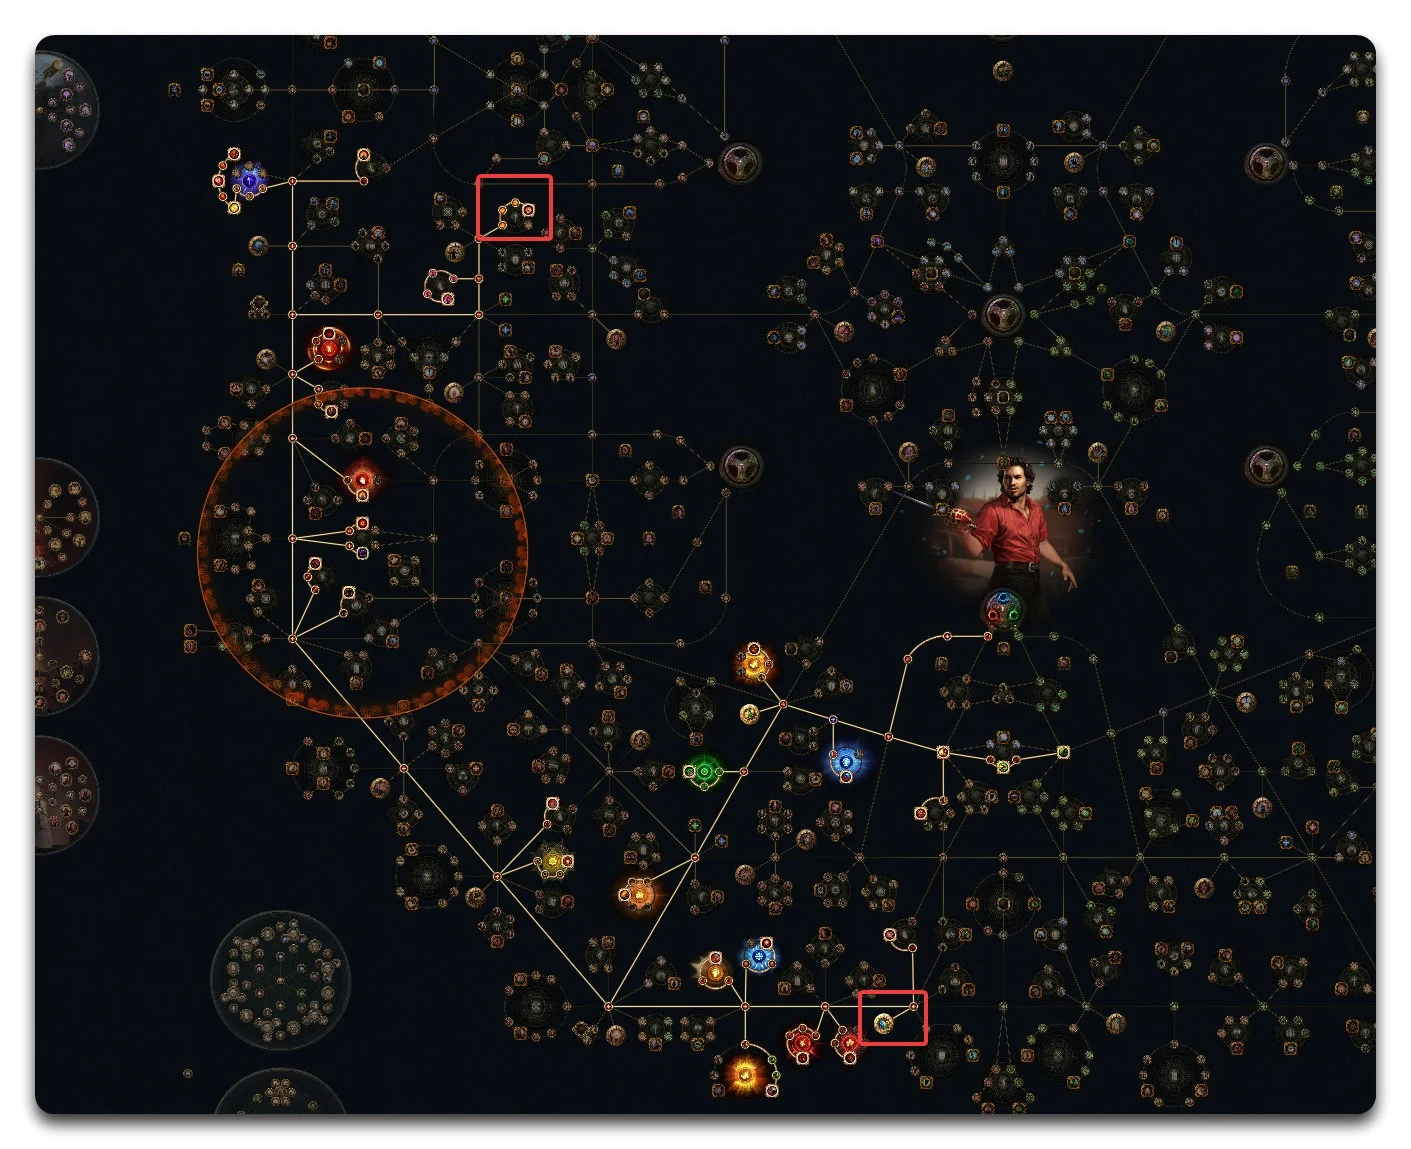
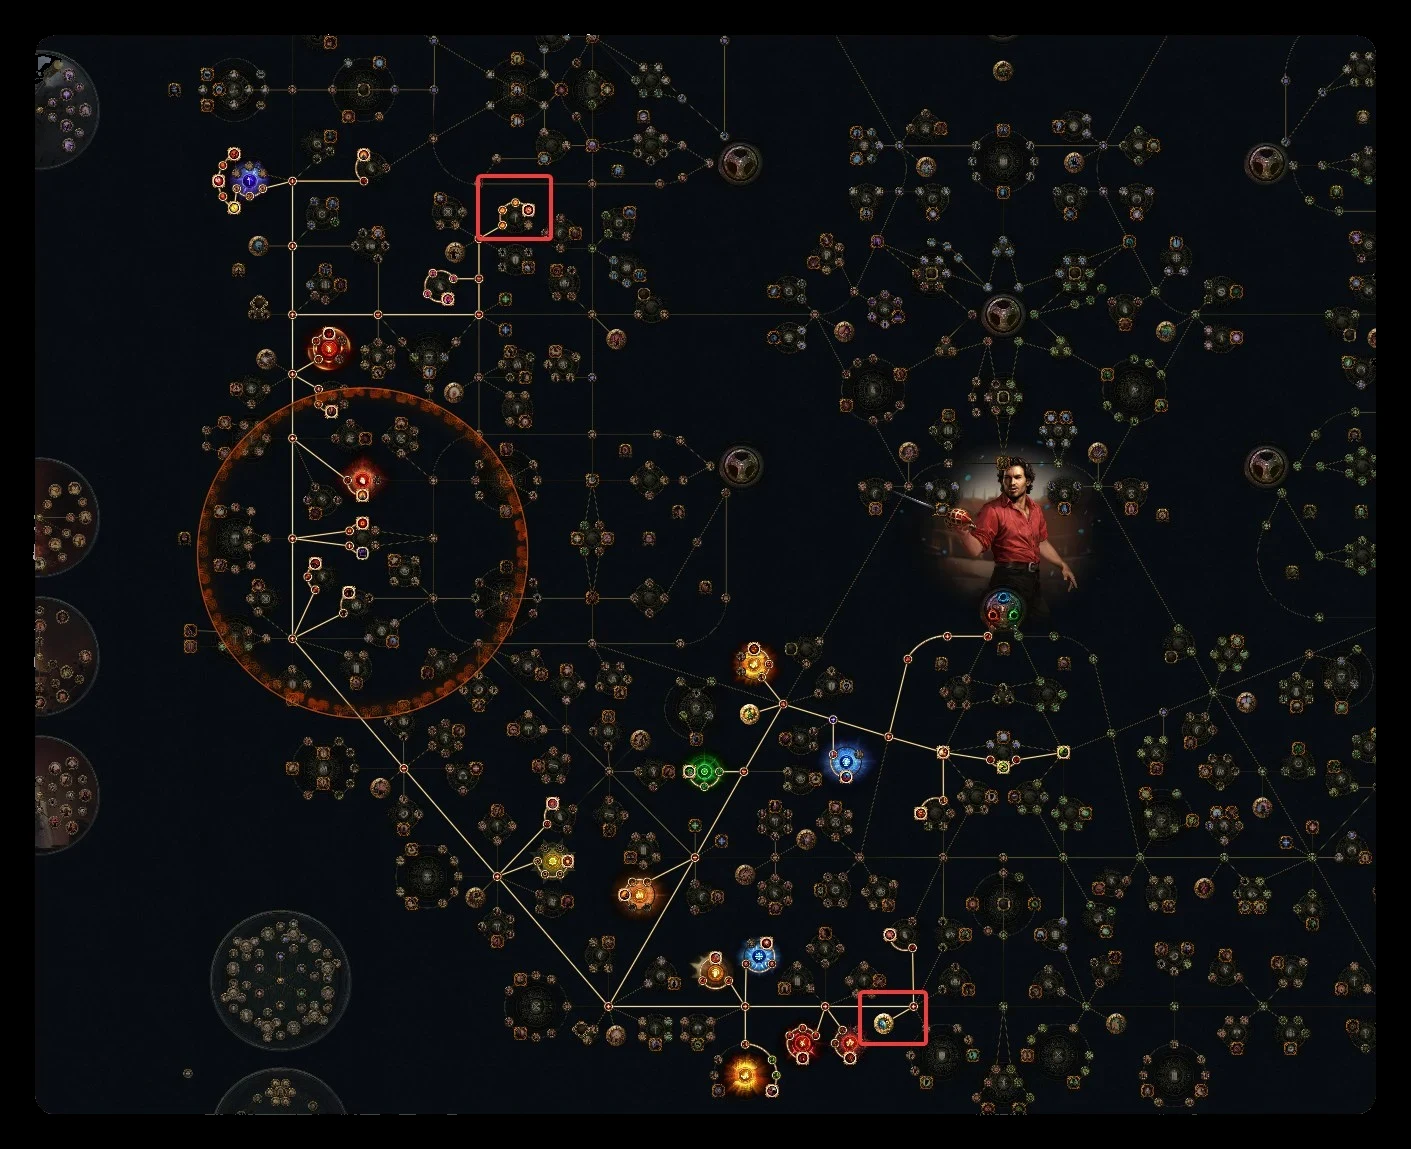
cyclone: скрин нод на блок перенесён к пункту про блок, чёрная рамка, картинки после своих пунктов
Claude-Session: https://claude.ai/code/session_018VjNU9HzQsTC65RTmxuG3e

Changed region(s): [[0.0, 0.0, 1.0, 1.0]]

diff --git a/cyclone/index.html b/cyclone/index.html
@@ -200,11 +200,13 @@
 <ul><li>Смертельная гордость (Lethal Pride): самоцвет на двойной урон.</li></ul>
 <div class="shots"><figure class="shot"><button type="button" aria-label="Открыть: Смертельная гордость"><img src="img/lethal.webp" alt="Смертельная гордость" loading="lazy"></button><figcaption>Смертельная гордость</figcaption></figure></div>
 <ul><li>Около 100% увеличения урона в ветке огня (нужен плоский урон от огня к атакам, без Жестокости в связке Вихря).</li></ul>
-<div class="shots"><figure class="shot"><button type="button" aria-label="Открыть: Мастерство огня"><img src="img/firemastery.webp" alt="Мастерство огня" loading="lazy"></button><figcaption>Мастерство огня</figcaption></figure><figure class="shot"><button type="button" aria-label="Открыть: Ветка огня в дереве"><img src="img/firetree.webp" alt="Ветка огня в дереве" loading="lazy"></button><figcaption>Ветка огня в дереве</figcaption></figure></div>
-<ul><li>Флаконы до 100% шанса крита.</li>
-<li>Кап блока атак и чар, много брони.</li>
-<li>Шлем на резист хаоса и броню.</li></ul>
-<div class="shots"><figure class="shot"><button type="button" aria-label="Открыть: Флаконы"><img src="img/endflasks.webp" alt="Флаконы" loading="lazy"></button><figcaption>Флаконы</figcaption></figure><figure class="shot"><button type="button" aria-label="Открыть: Шлем"><img src="img/ehelm.webp" alt="Шлем" loading="lazy"></button><figcaption>Шлем</figcaption></figure></div>
+<div class="shots"><figure class="shot"><button type="button" aria-label="Открыть: Мастерство огня"><img src="img/firemastery.webp" alt="Мастерство огня" loading="lazy"></button><figcaption>Мастерство огня</figcaption></figure></div>
+<ul><li>Флаконы до 100% шанса крита.</li></ul>
+<div class="shots"><figure class="shot"><button type="button" aria-label="Открыть: Флаконы"><img src="img/endflasks.webp" alt="Флаконы" loading="lazy"></button><figcaption>Флаконы</figcaption></figure></div>
+<ul><li>Кап блока атак и чар, много брони.</li></ul>
+<div class="shots"><figure class="shot"><button type="button" aria-label="Открыть: Ноды на блок в дереве"><img src="img/firetree.webp" alt="Ноды на блок в дереве" loading="lazy"></button><figcaption>Ноды на блок в дереве</figcaption></figure></div>
+<ul><li>Шлем на резист хаоса и броню.</li></ul>
+<div class="shots"><figure class="shot"><button type="button" aria-label="Открыть: Шлем"><img src="img/ehelm.webp" alt="Шлем" loading="lazy"></button><figcaption>Шлем</figcaption></figure></div>
 <p>Все вещи эндгейм версии по слотам: <button class="go" data-go="items:end">Вещи → Эндгейм</button>, флаконы: <button class="go" data-go="flasks:end">Флаконы → Эндгейм</button>.</p>
 
 <h2 id="craft">Крафт вещей</h2>
